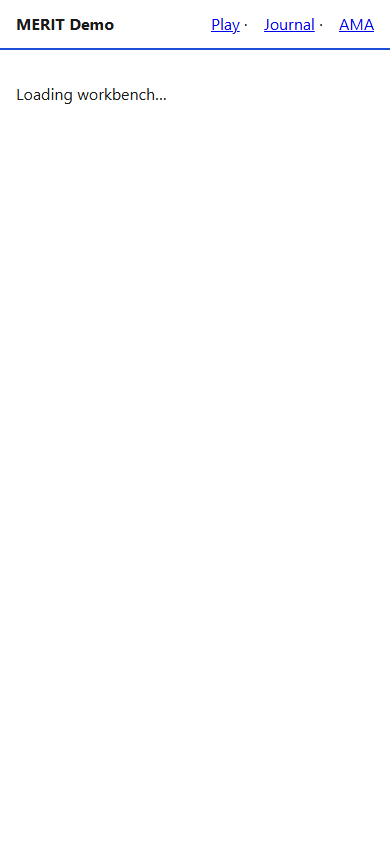
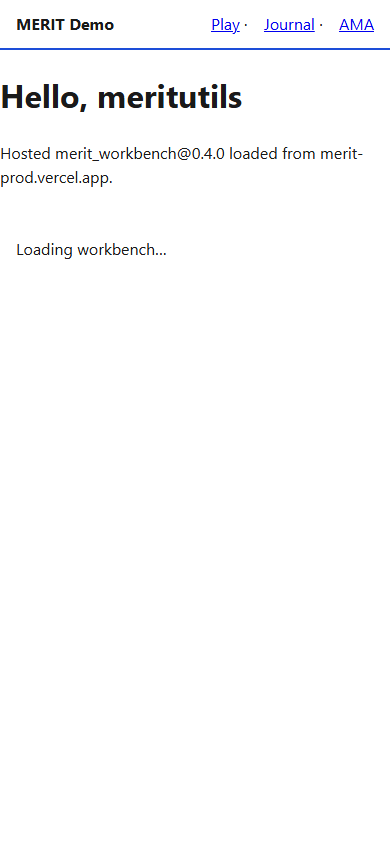
feat: add production Hello World proof

Changed region(s): [[0.0, 0.0924, 0.8, 0.2156], [0.0308, 0.2773, 0.4, 0.3081], [0.8308, 0.154, 0.9231, 0.1848]]

diff --git a/play/index.html b/play/index.html
@@ -9,10 +9,22 @@
 </head>
 <body>
   <header id="merit-header"></header>
+  <section class="merit-hello" aria-labelledby="meritutils-hello-title">
+    <h1 id="meritutils-hello-title">Hello, meritutils</h1>
+    <p id="meritutils-hello-status" data-provider-ready="pending">Loading the hosted merit_workbench package…</p>
+  </section>
   <main id="merit-workbench-mount"><p>Loading workbench…</p></main>
   <footer id="merit-footer"></footer>
   <script src="/config.js"></script>
   <script src="/assets/merit-shell.js"></script>
   <script src="https://merit-prod.vercel.app/pkg/meritutils/merit_workbench/0.4.0/merit-workbench.js" integrity="sha384-50h+5mm7tpQsOkVG/cxlvuu3Cl7+xw4C4H5EwGoKgqKScbeBRnxI29CxEtMcPOkf" crossorigin="anonymous"></script>
+  <script>
+    const helloStatus = document.getElementById('meritutils-hello-status');
+    const providerReady = Boolean(globalThis.merit_workbench?.MeritWorkbenchLayout);
+    helloStatus.dataset.providerReady = providerReady ? 'true' : 'false';
+    helloStatus.textContent = providerReady
+      ? 'Hosted merit_workbench@0.4.0 loaded from merit-prod.vercel.app.'
+      : 'Hosted merit_workbench did not load.';
+  </script>
 </body>
 </html>

diff --git a/merit-demo docs/merit_demo_design.md b/merit-demo docs/merit_demo_design.md
@@ -42,3 +42,13 @@ Optional Supabase: `sql/001_merit_demo.sql`, `sql/002_ama_daily_activity.sql`, m
 | `./merit.ps1 closeout` | Verify, e2e, whitespace, git status/head evidence |
 
 Raw `npm run verify`, `npm run e2e`, `git diff --check`, and `npx vercel` are implementation details under the wrapper.
+
+## Provider-consumer decision
+
+| Edge | Decision | Evidence |
+|---|---|---|
+| `meritutils → merit-demo` | **ACCEPT** | `merit_workbench@0.4.0` and `journal@0.2.2` load from the canonical production gateway; Playwright validates the visible Hello World proof and hosted registry. |
+| `meritsubs → merit-demo` | **ACCEPT** | External production mount only; `https://merit-prod.vercel.app/api/meritsubs/api/v1/health` passes. No provider source is embedded. |
+| `meritstore → merit-demo` | **ACCEPT** | Tenant route `https://merit-prod.vercel.app/store/merit-demo/register` is provisioned and returns 200. |
+
+This acceptance covers the public reference-consumer contract. It does not promote the hosted providers beyond their independently declared release stages.

diff --git a/HowToLaunch-Over-Dinner-Tutorial.md b/HowToLaunch-Over-Dinner-Tutorial.md
@@ -39,7 +39,7 @@ Tools, `merit` CLI, and optional Cursor agent skills.
 ```powershell
 mkdir C:\MyMeritApp
 cd C:\MyMeritApp
-git clone --branch skills-v0.3.11 https://github.com/AgentDraven/merit-agent-skills.git
+git clone --branch skills-v0.3.14 https://github.com/AgentDraven/merit-agent-skills.git
 ```
 
 Linux/macOS:
@@ -47,7 +47,7 @@ Linux/macOS:
 ```bash
 mkdir -p ~/MyMeritApp
 cd ~/MyMeritApp
-git clone --branch skills-v0.3.11 https://github.com/AgentDraven/merit-agent-skills.git
+git clone --branch skills-v0.3.14 https://github.com/AgentDraven/merit-agent-skills.git
 ```
 
 ### 1B — merit-demo
@@ -310,7 +310,7 @@ Read only after the three steps.
 
 ## Checklist
 
-- [ ] Step 1 — Cloned merit-agent-skills @ `skills-v0.3.11` and merit-demo
+- [ ] Step 1 — Cloned merit-agent-skills @ `skills-v0.3.14` and merit-demo
 - [ ] Step 2 — Updated `branding.json`, portal text, `MyTopics.txt`, previewed `play/index.html`
 - [ ] Step 3 — Registered as CC, one ToI pack, Journal or AMA selected
 - [ ] Deferred Vercel, here.now, Supabase, Square until needed

diff --git a/README.md b/README.md
@@ -7,7 +7,7 @@ Public **MERIT freemium showcase** under Mr-PI-Bala — workbench, journal, AMA,
 ## Quickstart
 
 ```powershell
-git clone --branch skills-v0.3.11 https://github.com/AgentDraven/merit-agent-skills.git
+git clone --branch skills-v0.3.14 https://github.com/AgentDraven/merit-agent-skills.git
 git clone https://github.com/Mr-PI-Bala/merit-demo.git
 cd merit-agent-skills
 .\install.ps1 -Target Cursor
@@ -20,7 +20,7 @@ cd merit-agent-skills
 Linux/macOS:
 
 ```bash
-git clone --branch skills-v0.3.11 https://github.com/AgentDraven/merit-agent-skills.git
+git clone --branch skills-v0.3.14 https://github.com/AgentDraven/merit-agent-skills.git
 git clone https://github.com/Mr-PI-Bala/merit-demo.git
 cd merit-agent-skills
 ./install.sh -Target Cursor
@@ -53,6 +53,8 @@ Linux/macOS:
 | `/ama/` | AMA UI; metered API from production MERIT mount | portal/ama/ |
 | Metered utilities | No local stub/API source; uses production MERIT Vercel mounts | — |
 | Register | meritstore | portal/subs/ |
+
+`/play/` is the canonical **Hello, meritutils** proof: it loads the production-hosted `merit_workbench@0.4.0` package and reports readiness in the page before the interactive workbench.
 
 ## Build & deploy
 

diff --git a/merit-demo docs/merit_demo_usage.md b/merit-demo docs/merit_demo_usage.md
@@ -11,7 +11,7 @@ Create an empty working directory and clone the public skills repo plus this dem
 ```powershell
 mkdir C:\MeritOverDinner
 cd C:\MeritOverDinner
-git clone --branch skills-v0.3.11 https://github.com/AgentDraven/merit-agent-skills.git
+git clone --branch skills-v0.3.14 https://github.com/AgentDraven/merit-agent-skills.git
 git clone https://github.com/Mr-PI-Bala/merit-demo.git
 cd merit-agent-skills
 .\install.ps1 -Target Cursor
@@ -23,7 +23,7 @@ Linux/macOS:
 ```bash
 mkdir -p ~/MeritOverDinner
 cd ~/MeritOverDinner
-git clone --branch skills-v0.3.11 https://github.com/AgentDraven/merit-agent-skills.git
+git clone --branch skills-v0.3.14 https://github.com/AgentDraven/merit-agent-skills.git
 git clone https://github.com/Mr-PI-Bala/merit-demo.git
 cd merit-agent-skills
 ./install.sh -Target Cursor
@@ -72,6 +72,8 @@ Use `merit-closeout` only if you are operating inside the private MERIT vault wo
 Missing promo codes resolve to `MERITAGENT`, and usage attribution reports affiliate code `MERITDEMO`. The hosted provider controls the intro credit budget (default $25) and Square checkout; this public repo does not expose or own billing logic.
 
 Production handler policy: public `merit-demo` ships no local meritsubs, AMA, journal, leaderboard, DIRT, or other metered utility handlers. The static shell calls production MERIT Vercel mounts via `MERIT_METERED_API_BASE_URL` and `MERITSUBS_PUBLIC_BASE_URL`.
+
+Hello World proof: open `/play/`. The page must show **Hello, meritutils** and confirm that `merit_workbench@0.4.0` loaded from `merit-prod.vercel.app`. `merit.ps1 e2e` validates this in Playwright along with the hosted registry, meritsubs health, and meritstore registration route.
 
 Register path: `https://merit-prod.vercel.app/store/merit-demo/register`
 

diff --git a/merit-demo docs/OPERATOR_PROVISION.md b/merit-demo docs/OPERATOR_PROVISION.md
@@ -4,6 +4,8 @@
 
 ## Status matrix
 
+**Integration decision:** **ACCEPT** for the hosted meritutils, meritsubs, and meritstore consumer edges as validated on 2026-07-13. Subscriber-created Supabase/Vercel resources remain optional operator steps for a white-labeled deployment.
+
 | Step | In-repo | Operator action |
 |------|---------|-----------------|
 | Legal (`portal/legal.html`, `/legal/terms`) | Done | Review copy |
@@ -11,7 +13,7 @@
 | meritsubs / usage authority | Production provider mount reference | Vercel env + deploy |
 | Supabase consumer project | SQL ready | Create project, run migrations |
 | Vercel deploy | `vercel.json` + build | `merit init`, edit `.merit_launch.md`, apply, link/deploy |
-| meritstore tenant | `cfg/meritstore_tenant.json` seed | Vault provision after cert |
+| meritstore tenant | `cfg/meritstore_tenant.json` seed | **Provisioned and live** |
 | here.now portals | `.merit_launch.md` slugs → `cfg/portals.json` | `merit portal` BYOK |
 | Production OAuth | Python handler | meritsubs env on Vercel |
 